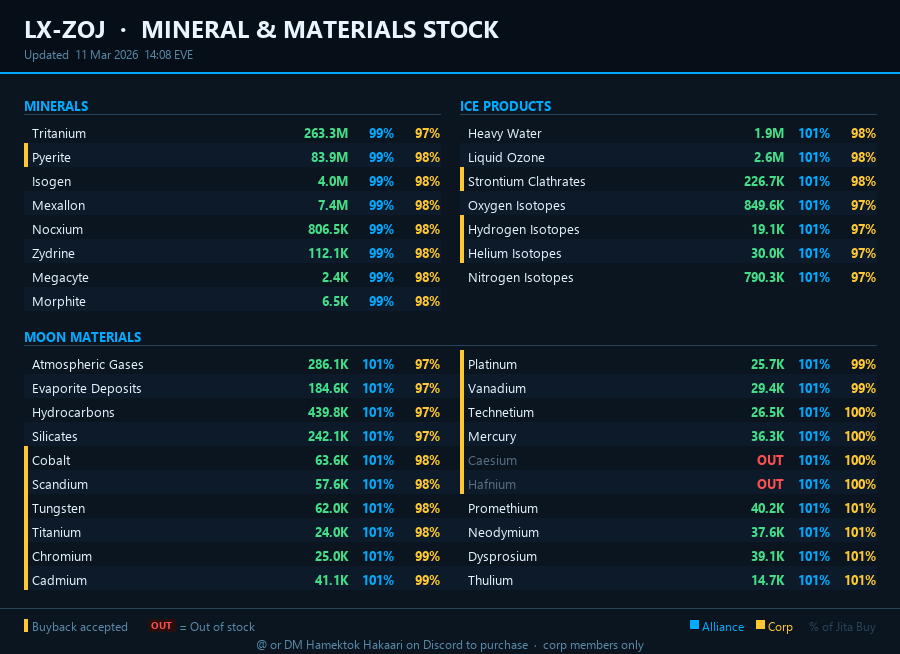
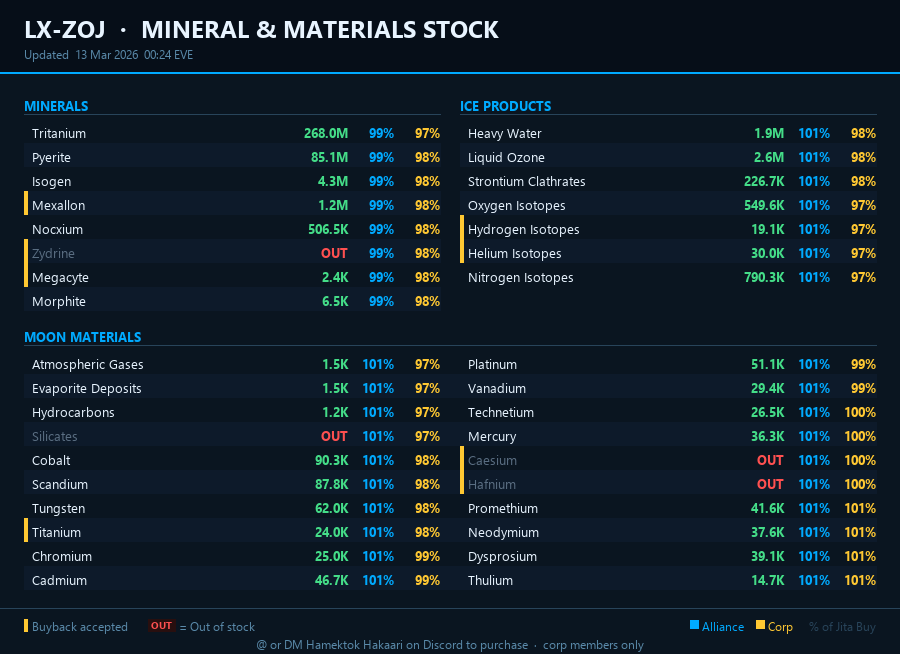
Resolve merge conflicts and clear stale market history tables
- Resolve UU conflicts on fuel_image.png, index_final.html, stock_image.png
  left over from cherry-pick between main and dev
- Clear bwf_market_history (13,397 rows) and market_history (4,659 rows)
  tables — structure preserved for future use

diff --git a/index_final.html b/index_final.html
@@ -7,7 +7,7 @@
     <script src="bpc_pricing_data.js"></script>
     <script src="bpc_data.js"></script>
     <script src="research_jobs.js"></script>
-    <script src="buyback_data.js?v=202603111408"></script>
+    <script src="buyback_data.js?v=202603130051"></script>
     <style>
         @import url('https://fonts.googleapis.com/css2?family=Orbitron:wght@400;700;900&family=Rajdhani:wght@300;400;600;700&display=swap');
 
@@ -2711,7 +2711,7 @@ Tip: Copy directly from EVE inventory window"></textarea>
                         "Arkonor IV-Grade": 0,
                         "Armor Plates": 3,
                         "Artificial Neural Network": 4,
-                        "Atmospheric Gases": 0,
+                        "Atmospheric Gases": 1468,
                         "Bacteria": 0,
                         "Biocells": 0,
                         "Biofuels": 0,
@@ -2735,7 +2735,7 @@ Tip: Copy directly from EVE inventory window"></textarea>
                         "Broadcast Node": 0,
                         "Broken Drone Transceiver": 69,
                         "Burned Logic Circuit": 155,
-                        "Cadmium": 41073,
+                        "Cadmium": 46701,
                         "Caesarium Cadmide": 102,
                         "Caesium": 0,
                         "Camera Drones": 0,
@@ -2751,7 +2751,7 @@ Tip: Copy directly from EVE inventory window"></textarea>
                         "Cinnabar": 0,
                         "Clear Icicle": 0,
                         "Clear Icicle IV-Grade": 0,
-                        "Cobalt": 63646,
+                        "Cobalt": 90340,
                         "Cobaltite": 0,
                         "Coesite": 0,
                         "Compressed Arkonor": 6,
@@ -2843,13 +2843,13 @@ Tip: Copy directly from EVE inventory window"></textarea>
                         "Compressed Kernite III-Grade": 4,
                         "Compressed Kernite IV-Grade": 0,
                         "Compressed Krystallos": 0,
-                        "Compressed Kylixium": 95611,
-                        "Compressed Kylixium II-Grade": 111361,
+                        "Compressed Kylixium": 11,
+                        "Compressed Kylixium II-Grade": 61,
                         "Compressed Kylixium III-Grade": 27,
                         "Compressed Kylixium IV-Grade": 71,
                         "Compressed Lavish Chromite": 86,
-                        "Compressed Lavish Otavite": 13502,
-                        "Compressed Lavish Sperrylite": 12486,
+                        "Compressed Lavish Otavite": 2,
+                        "Compressed Lavish Sperrylite": 86,
                         "Compressed Lavish Vanadinite": 0,
                         "Compressed Loparite": 13,
                         "Compressed Mercoxit": 18,
@@ -2858,7 +2858,7 @@ Tip: Copy directly from EVE inventory window"></textarea>
                         "Compressed Monazite": 30,
                         "Compressed Mordunium": 0,
                         "Compressed Mordunium II-Grade": 0,
-                        "Compressed Mordunium III-Grade": 380924,
+                        "Compressed Mordunium III-Grade": 24,
                         "Compressed Mordunium IV-Grade": 58,
                         "Compressed Nocxite": 14,
                         "Compressed Nocxite II-Grade": 92,
@@ -2870,7 +2870,7 @@ Tip: Copy directly from EVE inventory window"></textarea>
                         "Compressed Omber IV-Grade": 42,
                         "Compressed Otavite": 0,
                         "Compressed Plagioclase": 38,
-                        "Compressed Plagioclase II-Grade": 215946,
+                        "Compressed Plagioclase II-Grade": 46,
                         "Compressed Plagioclase III-Grade": 94,
                         "Compressed Plagioclase IV-Grade": 82,
                         "Compressed Pollucite": 0,
@@ -2885,17 +2885,17 @@ Tip: Copy directly from EVE inventory window"></textarea>
                         "Compressed Scheelite": 1,
                         "Compressed Scordite": 52,
                         "Compressed Scordite II-Grade": 58,
-                        "Compressed Scordite III-Grade": 484620,
+                        "Compressed Scordite III-Grade": 20,
                         "Compressed Scordite IV-Grade": 0,
                         "Compressed Shimmering Chromite": 0,
                         "Compressed Shimmering Otavite": 0,
                         "Compressed Shimmering Sperrylite": 78,
                         "Compressed Shimmering Vanadinite": 16,
-                        "Compressed Shining Loparite": 3450,
+                        "Compressed Shining Loparite": 50,
                         "Compressed Shining Monazite": 45,
                         "Compressed Shining Xenotime": 0,
                         "Compressed Shining Ytterbite": 92,
-                        "Compressed Sperrylite": 1451,
+                        "Compressed Sperrylite": 51,
                         "Compressed Spodumain": 28,
                         "Compressed Spodumain II-Grade": 73,
                         "Compressed Spodumain III-Grade": 0,
@@ -2913,7 +2913,7 @@ Tip: Copy directly from EVE inventory window"></textarea>
                         "Compressed Vanadinite": 0,
                         "Compressed Veldspar": 18,
                         "Compressed Veldspar II-Grade": 2,
-                        "Compressed Veldspar III-Grade": 754586,
+                        "Compressed Veldspar III-Grade": 86,
                         "Compressed Veldspar IV-Grade": 31,
                         "Compressed White Glaze": 0,
                         "Compressed White Glaze IV-Grade": 0,
@@ -2921,7 +2921,7 @@ Tip: Copy directly from EVE inventory window"></textarea>
                         "Compressed Ytirium": 67,
                         "Compressed Ytirium II-Grade": 0,
                         "Compressed Ytirium III-Grade": 0,
-                        "Compressed Ytirium IV-Grade": 119282,
+                        "Compressed Ytirium IV-Grade": 82,
                         "Compressed Ytterbite": 94,
                         "Compressed Zeolites": 27,
                         "Compressed Zircon": 0,
@@ -2976,7 +2976,7 @@ Tip: Copy directly from EVE inventory window"></textarea>
                         "Enhanced Ward Console": 2,
                         "Enriched Uranium": 0,
                         "Euxenite": 0,
-                        "Evaporite Deposits": 184559,
+                        "Evaporite Deposits": 1474,
                         "Fermionic Condensates": 142,
                         "Fernite Alloy": 0,
                         "Fernite Carbide": 0,
@@ -3028,7 +3028,7 @@ Tip: Copy directly from EVE inventory window"></textarea>
                         "Hezorime III-Grade": 0,
                         "Hezorime IV-Grade": 0,
                         "High-Tech Transmitters": 0,
-                        "Hydrocarbons": 439791,
+                        "Hydrocarbons": 1232,
                         "Hydrogen Fuel Block": 0,
                         "Hydrogen Isotopes": 19135,
                         "Hyperflurite": 0,
@@ -3040,7 +3040,7 @@ Tip: Copy directly from EVE inventory window"></textarea>
                         "Intact Shield Emitter": 7,
                         "Integrity Response Drones": 0,
                         "Interface Circuit": 3,
-                        "Isogen": 4027518,
+                        "Isogen": 4325677,
                         "Jaspet": 0,
                         "Jaspet II-Grade": 0,
                         "Jaspet III-Grade": 0,
@@ -3070,7 +3070,7 @@ Tip: Copy directly from EVE inventory window"></textarea>
                         "Mercoxit II-Grade": 0,
                         "Mercoxit III-Grade": 0,
                         "Mercury": 36269,
-                        "Mexallon": 7366089,
+                        "Mexallon": 1204337,
                         "Micro Circuit": 8,
                         "Microfiber Shielding": 0,
                         "Miniature Electronics": 0,
@@ -3093,7 +3093,7 @@ Tip: Copy directly from EVE inventory window"></textarea>
                         "Nocxite II-Grade": 0,
                         "Nocxite III-Grade": 0,
                         "Nocxite IV-Grade": 0,
-                        "Nocxium": 806465,
+                        "Nocxium": 506465,
                         "Nonlinear Metamaterials": 0,
                         "Nuclear Reactors": 0,
                         "Omber": 0,
@@ -3102,7 +3102,7 @@ Tip: Copy directly from EVE inventory window"></textarea>
                         "Omber IV-Grade": 0,
                         "Organic Mortar Applicators": 0,
                         "Otavite": 0,
-                        "Oxides": 0,
+                        "Oxides": 3385,
                         "Oxidizing Compound": 0,
                         "Oxy-Organic Solvents": 0,
                         "Oxygen": 0,
@@ -3117,7 +3117,7 @@ Tip: Copy directly from EVE inventory window"></textarea>
                         "Planetary Vehicles": 0,
                         "Plasmoids": 0,
                         "Plasmonic Metamaterials": 0,
-                        "Platinum": 25723,
+                        "Platinum": 51097,
                         "Platinum Technite": 0,
                         "Pollucite": 0,
                         "Polyaramids": 0,
@@ -3125,11 +3125,11 @@ Tip: Copy directly from EVE inventory window"></textarea>
                         "Power Circuit": 3,
                         "Power Conduit": 0,
                         "Precious Metals": 0,
-                        "Promethium": 40249,
+                        "Promethium": 41604,
                         "Promethium Mercurite": 0,
                         "Prometium": 102,
                         "Proteins": 70720,
-                        "Pyerite": 83851481,
+                        "Pyerite": 85128580,
                         "Pyroxeres": 0,
                         "Pyroxeres II-Grade": 0,
                         "Pyroxeres III-Grade": 0,
@@ -3143,7 +3143,7 @@ Tip: Copy directly from EVE inventory window"></textarea>
                         "Robotics": 0,
                         "Rocket Fuel": 0,
                         "Rolled Tungsten Alloy": 0,
-                        "Scandium": 57578,
+                        "Scandium": 87826,
                         "Scheelite": 0,
                         "Scorched Telemetry Processor": 142,
                         "Scordite": 0,
@@ -3160,7 +3160,7 @@ Tip: Copy directly from EVE inventory window"></textarea>
                         "Shining Xenotime": 0,
                         "Shining Ytterbite": 0,
                         "Silicate Glass": 0,
-                        "Silicates": 242059,
+                        "Silicates": 0,
                         "Silicon": 0,
                         "Silicon Diborite": 0,
                         "Single-crystal Superalloy I-beam": 0,
@@ -3200,7 +3200,7 @@ Tip: Copy directly from EVE inventory window"></textarea>
                         "Transmitter": 0,
                         "Trigger Unit": 6,
                         "Tripped Power Circuit": 171,
-                        "Tritanium": 263347059,
+                        "Tritanium": 268018066,
                         "Tungsten": 61961,
                         "Tungsten Carbide": 0,
                         "Twinkling Cobaltite": 0,
@@ -3234,10 +3234,10 @@ Tip: Copy directly from EVE inventory window"></textarea>
                         "Ytterbite": 58,
                         "Zeolites": 0,
                         "Zircon": 62,
-                        "Zydrine": 112113
+                        "Zydrine": 0
             },
-            "blueprintsLastUpdated": "Mar 12, 2026 08:00 EVE",
-            "inventoryLastUpdated": "Mar 12, 2026 16:08 EVE"
+            "blueprintsLastUpdated": "Mar 13, 2026 08:00 EVE",
+            "inventoryLastUpdated": "Mar 13, 2026 16:08 EVE"
 };
 
         let BLUEPRINT_DATA = [
@@ -4378,7 +4378,7 @@ Tip: Copy directly from EVE inventory window"></textarea>
             {
                         "name": "Mobile Tractor Unit Blueprint",
                         "me": 10,
-                        "te": 0,
+                        "te": 20,
                         "category": "Structures",
                         "subcategory": "Deployable Structures"
             },
